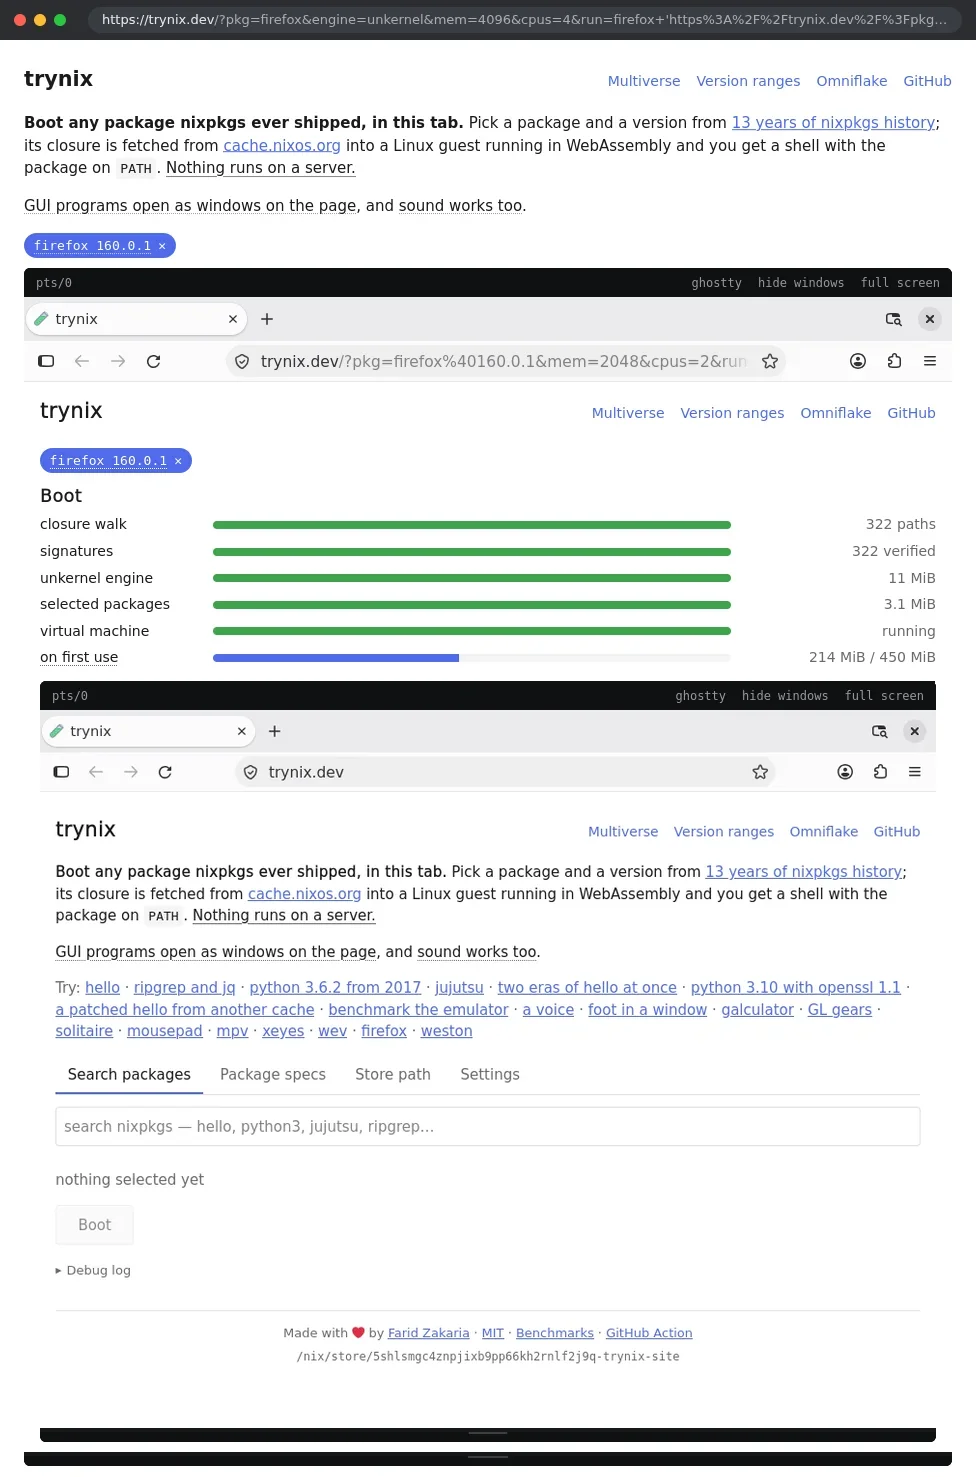
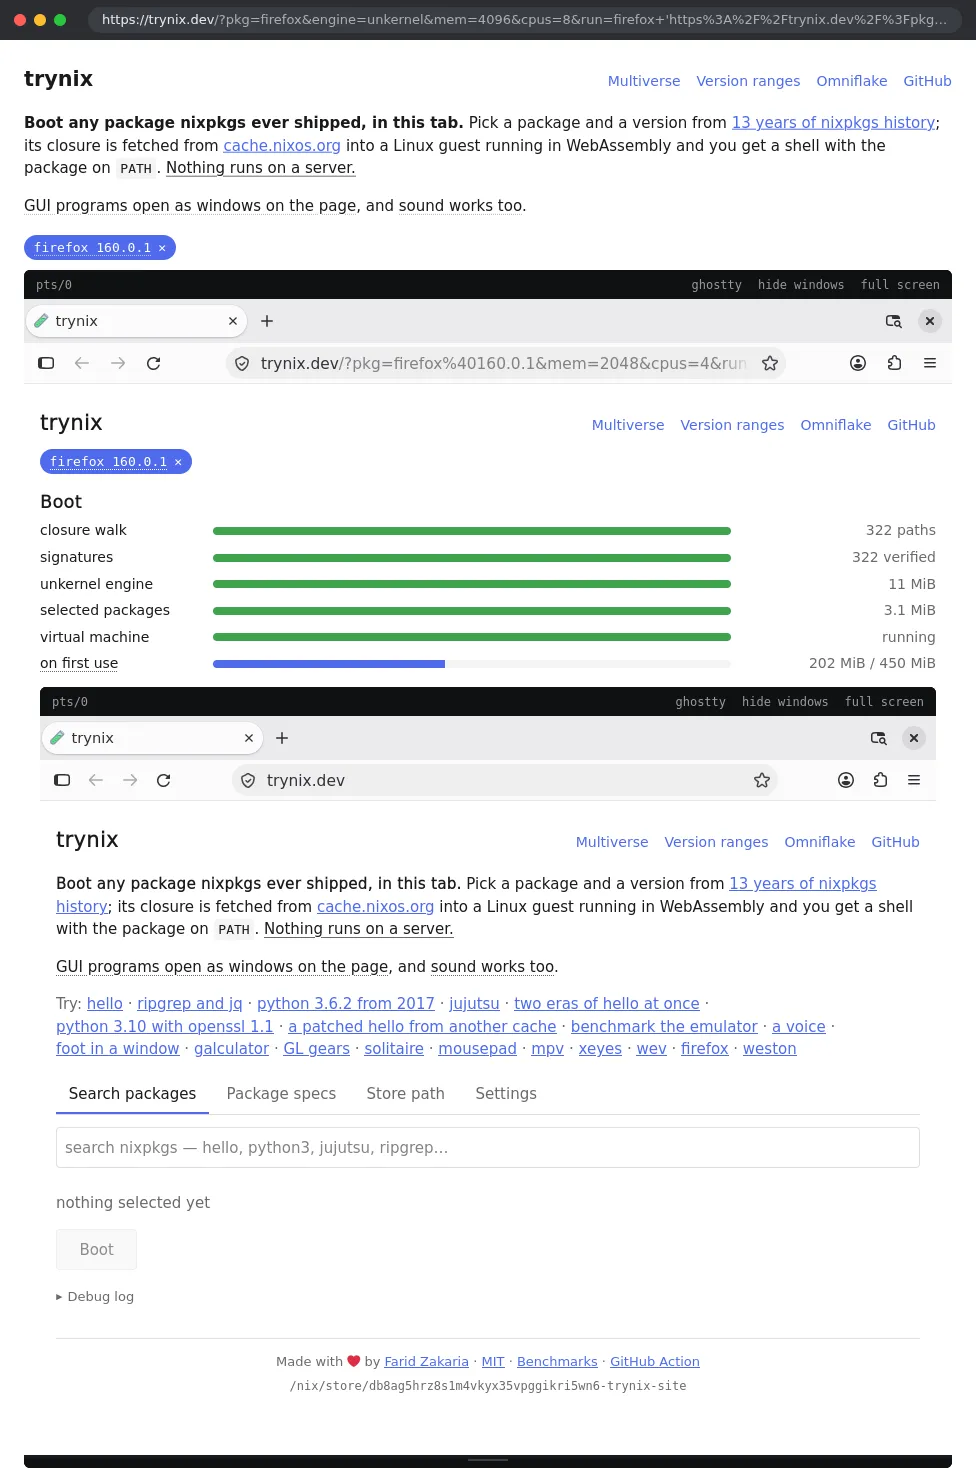
Small update to came-early post
Updated footnote time and trynix-inception photo

diff --git a/_posts/2026-11-23-2035-came-early.md b/_posts/2026-11-23-2035-came-early.md
@@ -275,9 +275,10 @@ plot = (
 
 Here is [Firefox in trynix](https://trynix.dev/?pkg=firefox&engine=unkernel&mem=2048&run=firefox+https%3A%2F%2Ftrynix.dev+%26&boot=1), and it loading [trynix.dev](https://trynix.dev), and then loading Firefox again inside itself.[^inception]
 
-[^inception]: Do not be too overjoyed. It took more than an hour for this to render.
+[^inception]: Don't get too excited: this took over 4 hours. The inner Firefox needed JIT disabled, the middle one ran without GL, and the outer page used a Wisp relay on my laptop since [wisp.unkernel.dev cannot reach itself](https://gist.github.com/fzakaria/ef9fda19c8b5f3238e41bab577462797).
 
 [![trynix.dev in a browser, booted with Firefox; that Firefox shows trynix.dev booting Firefox again, and the inner Firefox shows trynix.dev](/assets/images/trynix-inception.webp)](/assets/images/trynix-inception.webp)
+{: style="--image-width: 28rem"}
 
 Sit and bask in that insanity. That is Firefox, on Linux compiled to WebAssembly, in a Firefox tab, loading the site and then loading Firefox again inside itself. 🤯
 
